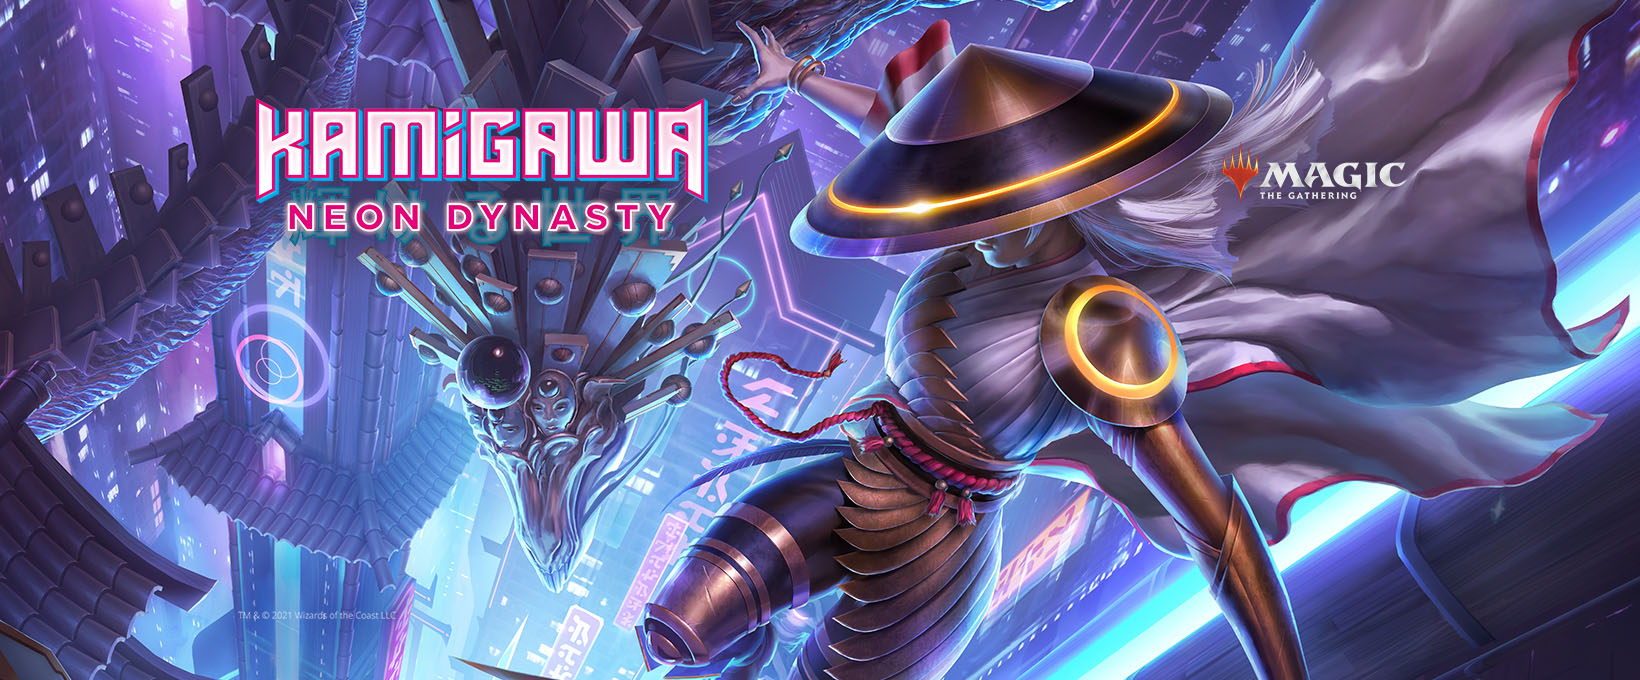
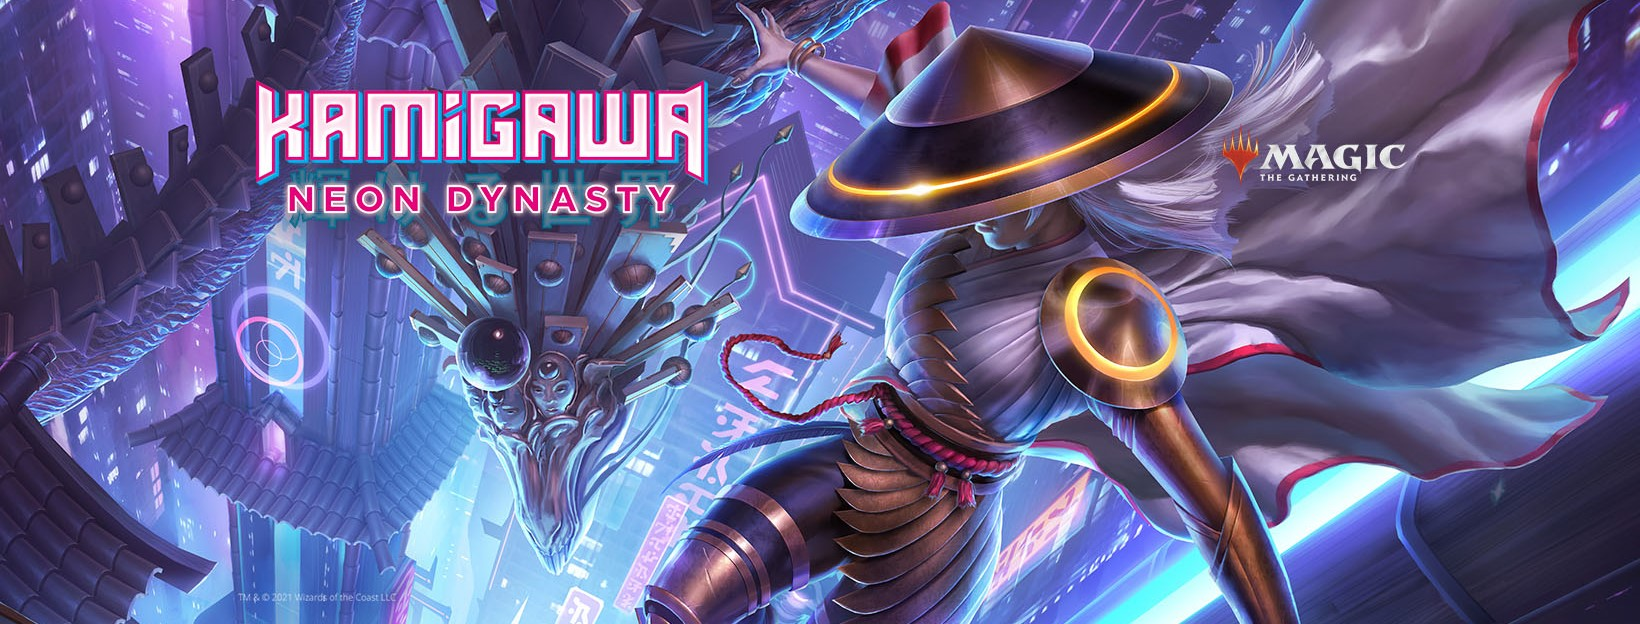
updated heroes and added suport to products page

diff --git a/server.js b/server.js
@@ -202,6 +202,17 @@ app.get('/api/sets', async (req, res) => {
   }
 });
 
+// get single featured set
+app.get('/api/sets/:name', async (req, res) => {
+  let name = req.params.name;
+  try {
+    let set = await dataService.getFeaturedSet(name);
+    res.status(200).json({set});
+  } catch (err) {
+    res.status(422).json({message: `there was an error: ${err}`});
+  }
+});
+
 // Add Featured set
 app.post('/api/sets', passport.authenticate('jwt', { session: false }), isAdmin, async (req, res) => {
   let data = req.body;

diff --git a/data-service.js b/data-service.js
@@ -72,6 +72,7 @@ let featuredSetsSchema = new Schema({
   "code": String,
   "released_at": Date,
   "scryfall_id": String,
+  "hero": String,
   "featured": {
     "type": Boolean,
     "default": false
@@ -183,6 +184,10 @@ module.exports.login = async (userData) => {
 
 module.exports.getFeaturedSets = async () => {
   return FeaturedSet.find().exec();
+};
+
+module.exports.getFeaturedSet = async (name) => {
+  return FeaturedSet.findOne({ name }).exec();
 };
 
 module.exports.addFeaturedSet = async (data) => {
